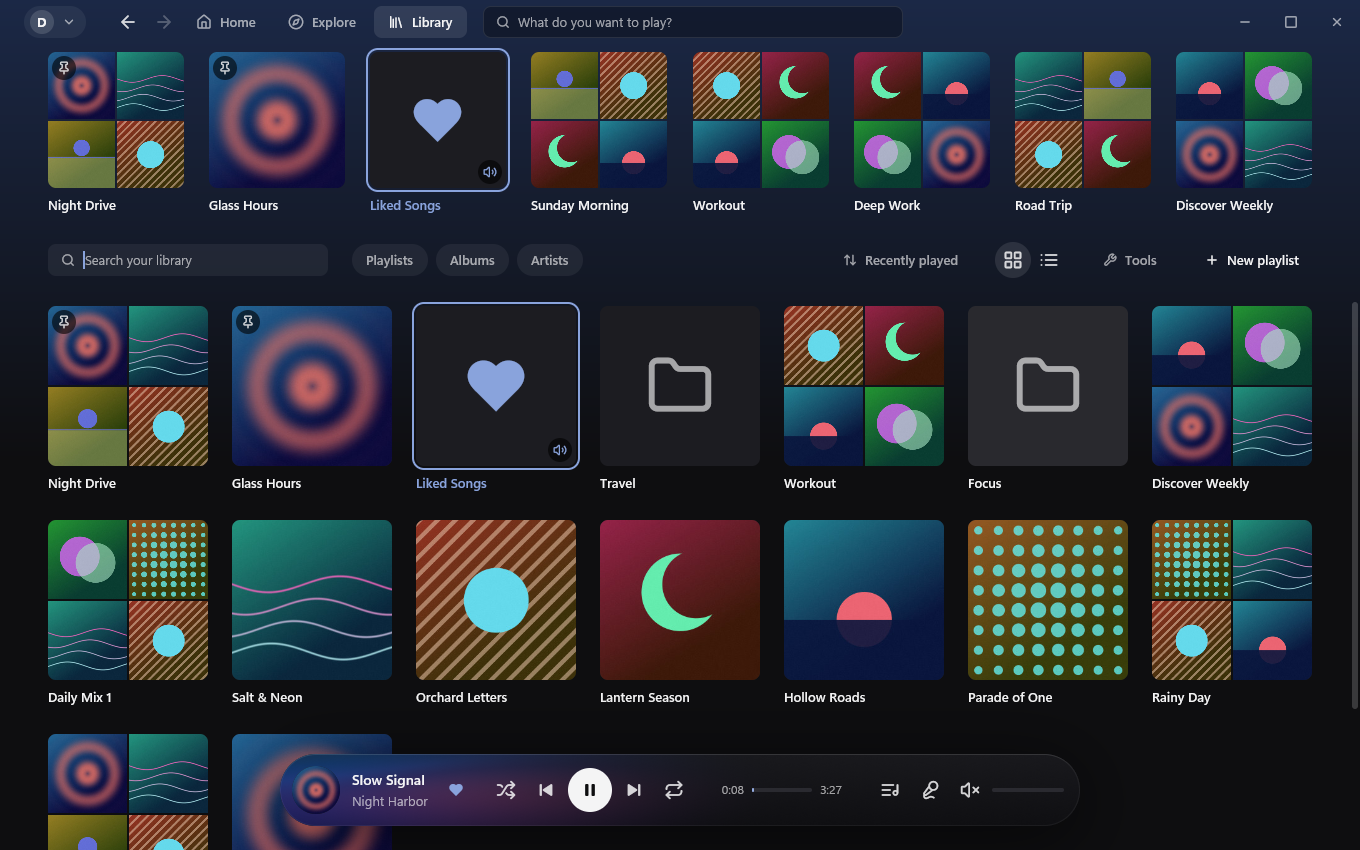
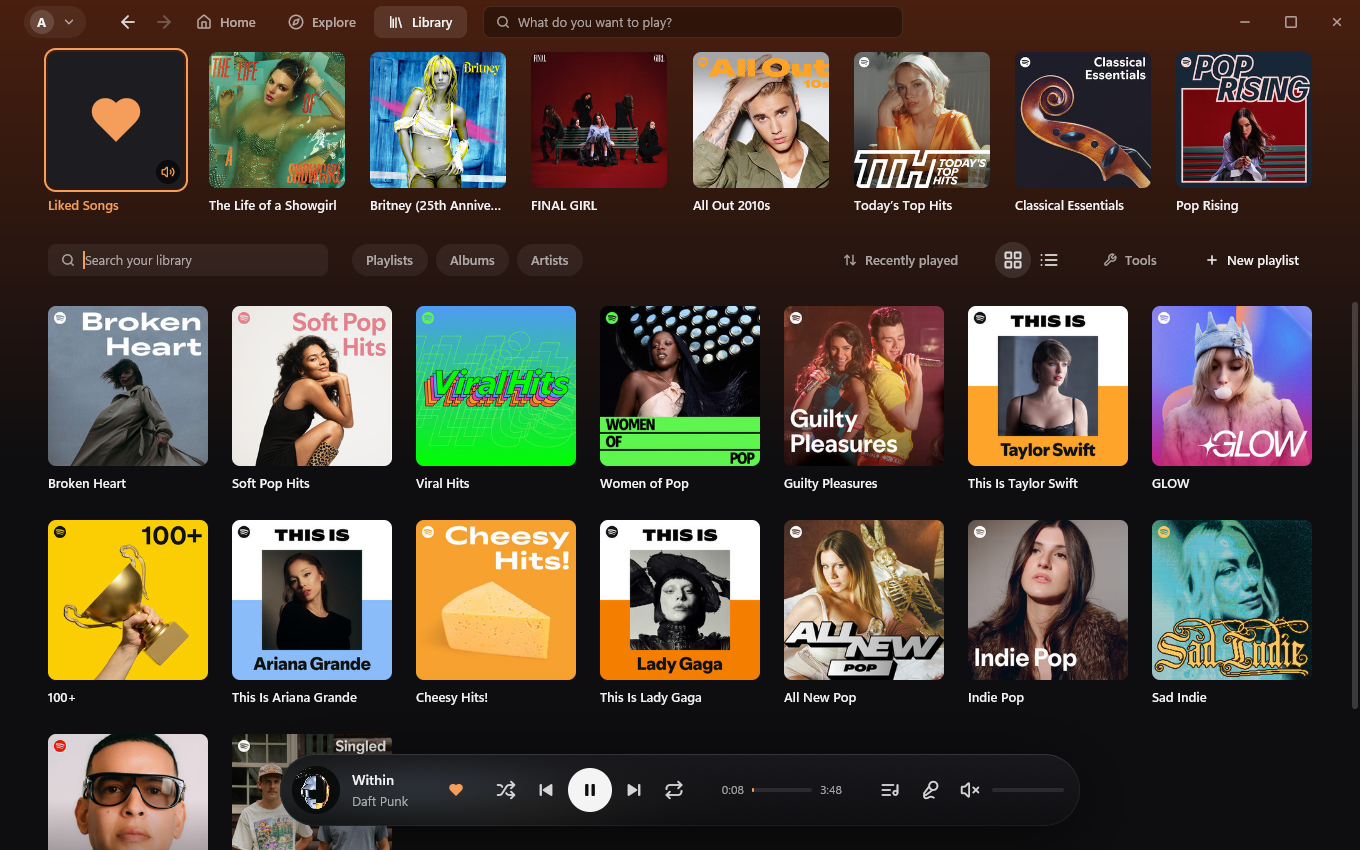
README görüntüleri gerçek arayüzden, Spotify'ın herkese açık listeleriyle yenilendi

diff --git a/README.md b/README.md
@@ -24,16 +24,16 @@ Openify is a desktop player written in Rust. The interface is drawn with [gpui](
 
 ## Screenshots
 
-All screenshots use a demo library with made-up artists, albums and friends.
+The screenshots show Spotify's own public playlists and albums with a sample profile.
 
 | | |
 |---|---|
 | ![Playlist](docs/screenshots/playlist.png) | ![Lyrics](docs/screenshots/lyrics.png) |
-| A playlist with the floating player | Full-screen lyrics with translation |
+| A Spotify playlist with the floating player | Full-screen lyrics with translation |
 | ![Equalizer](docs/screenshots/equalizer.png) | ![Library tools](docs/screenshots/tools.png) |
 | Equalizer and headphone profile | Duplicate finder in the library tools |
-| ![Friend activity](docs/screenshots/friends.png) | |
-| Friend activity panel | |
+| ![Album](docs/screenshots/album.png) | |
+| An album page | |
 
 ## Install
 
